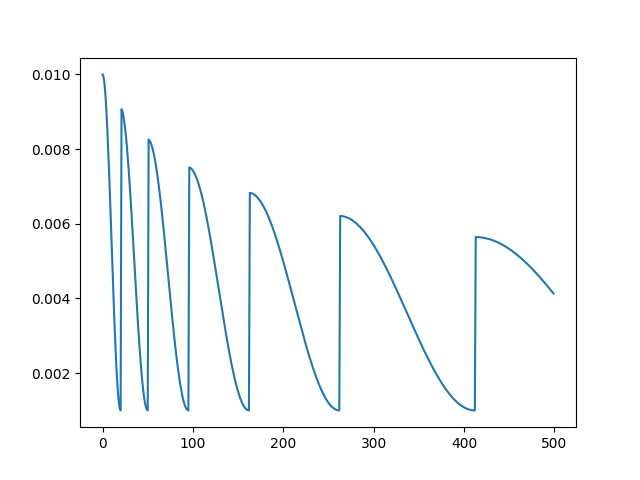
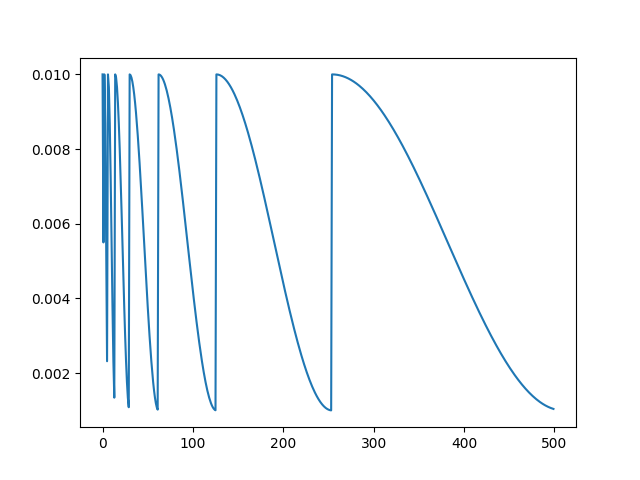
.

diff --git a/tmp/encoder.py b/tmp/encoder.py
@@ -1,0 +1,58 @@
+#!/usr/bin/env python
+# coding=utf-8
+import torch
+import torch.nn as nn
+import torch.nn.functional as F
+
+from timm.data import IMAGENET_DEFAULT_MEAN, IMAGENET_DEFAULT_STD, IMAGENET_INCEPTION_MEAN, IMAGENET_INCEPTION_STD
+from timm.models.helpers import build_model_with_cfg, named_apply, adapt_input_conv
+from timm.models.layers import PatchEmbed, Mlp, DropPath, trunc_normal_, lecun_normal_
+
+class Attention(nn.Module):
+    def __init__(self, dim, num_heads=8, qkv_bias=False, attn_drop=0., proj_drop=0.):
+        super().__init__()
+        assert dim % num_heads == 0, 'dim should be divisible by num_heads'
+        self.num_heads = num_heads
+        head_dim = dim // num_heads
+        self.scale = head_dim ** -0.5
+
+        self.qkv = nn.Linear(dim, dim * 3, bias=qkv_bias)
+        self.attn_drop = nn.Dropout(attn_drop)
+        self.proj = nn.Linear(dim, dim)
+        self.proj_drop = nn.Dropout(proj_drop)
+
+    def forward(self, x):
+        B, N, C = x.shape
+        qkv = self.qkv(x).reshape(B, N, 3, self.num_heads, C // self.num_heads).permute(2, 0, 3, 1, 4)
+        q, k, v = qkv.unbind(0)   # make torchscript happy (cannot use tensor as tuple)
+
+        attn = (q @ k.transpose(-2, -1)) * self.scale
+        attn = attn.softmax(dim=-1)
+        attn = self.attn_drop(attn)
+
+        x = (attn @ v).transpose(1, 2).reshape(B, N, C)
+        x = self.proj(x)
+        x = self.proj_drop(x)
+        return x
+
+class Block(nn.Module):
+
+    def __init__(self, dim, num_heads, mlp_ratio=4., qkv_bias=False, drop=0., attn_drop=0.,
+                 drop_path=0., act_layer=nn.GELU, norm_layer=nn.LayerNorm):
+        super().__init__()
+        self.norm1 = norm_layer(dim)
+        self.attn = Attention(dim, num_heads=num_heads, qkv_bias=qkv_bias, attn_drop=attn_drop, proj_drop=drop)
+        # NOTE: drop path for stochastic depth, we shall see if this is better than dropout here
+        self.drop_path = DropPath(drop_path) if drop_path > 0. else nn.Identity()
+        self.norm2 = norm_layer(dim)
+        mlp_hidden_dim = int(dim * mlp_ratio)
+        self.mlp = Mlp(in_features=dim, hidden_features=mlp_hidden_dim, act_layer=act_layer, drop=drop)
+
+    def forward(self, x):
+        x = x + self.drop_path(self.attn(self.norm1(x)))
+        x = x + self.drop_path(self.mlp(self.norm2(x)))
+        return x
+
+a = Attention(32)
+x = torch.rand(2,66,32)
+print(a(x).shape)

diff --git a/tmp/lr.py b/tmp/lr.py
@@ -1,0 +1,20 @@
+#!/usr/bin/env python
+# coding=utf-8
+import torch
+import math
+from torch.optim.lr_scheduler import _LRScheduler, CosineAnnealingWarmRestarts
+from torchvision.models import resnet18
+import matplotlib.pyplot as plt
+
+model = resnet18(pretrained=True)
+optimizer = torch.optim.AdamW(params = model.parameters(), lr=0.01)
+T_0 = 2
+T_mult = 2
+scheduler = CosineAnnealingWarmRestarts(optimizer, T_0=T_0, T_mult= T_mult, eta_min=0.001)
+lr = []
+for epoch in range(500):
+    lr.append(optimizer.param_groups[0]['lr'])
+    optimizer.step()
+    scheduler.step()
+plt.plot([i for i in range(500)], lr)
+plt.savefig('./test.png')

diff --git a/tmp/0212.py b/tmp/0212.py
@@ -2,9 +2,9 @@
 # coding=utf-8
 import math
 import matplotlib.pyplot as plt 
-warm_up_iter = 10
+warm_up_iter = 5
 lr_min = 1e-7
-lr_max = 1
+lr_max = 1e-3
 T_max = 100
 
 lambda0 = lambda cur_iter: cur_iter / warm_up_iter if  cur_iter < warm_up_iter else \

diff --git a/tmp/te.c b/tmp/te.c
@@ -1,0 +1,12 @@
+#include <stdio.h>
+
+int main()
+{
+    const int a=0;
+    const int b=-1;
+    const int c=-2;
+    printf("%d", a>b);
+    printf("%d", a>c);
+    return 0;
+}
+

diff --git a/py/yield.md b/py/yield.md
@@ -1,0 +1,2 @@
+[(4条消息) python中yield的用法详解——最简单，最清晰的解释_mieleizhi0522的博客-CSDN博客_yield](https://blog.csdn.net/mieleizhi0522/article/details/82142856)
+

diff --git a/py/@.md b/py/@.md
@@ -1,0 +1,9 @@
+# 装饰器
+```python
+@func1
+def func2():
+```
+相当于
+```python
+func2 = func1(func2)
+```
